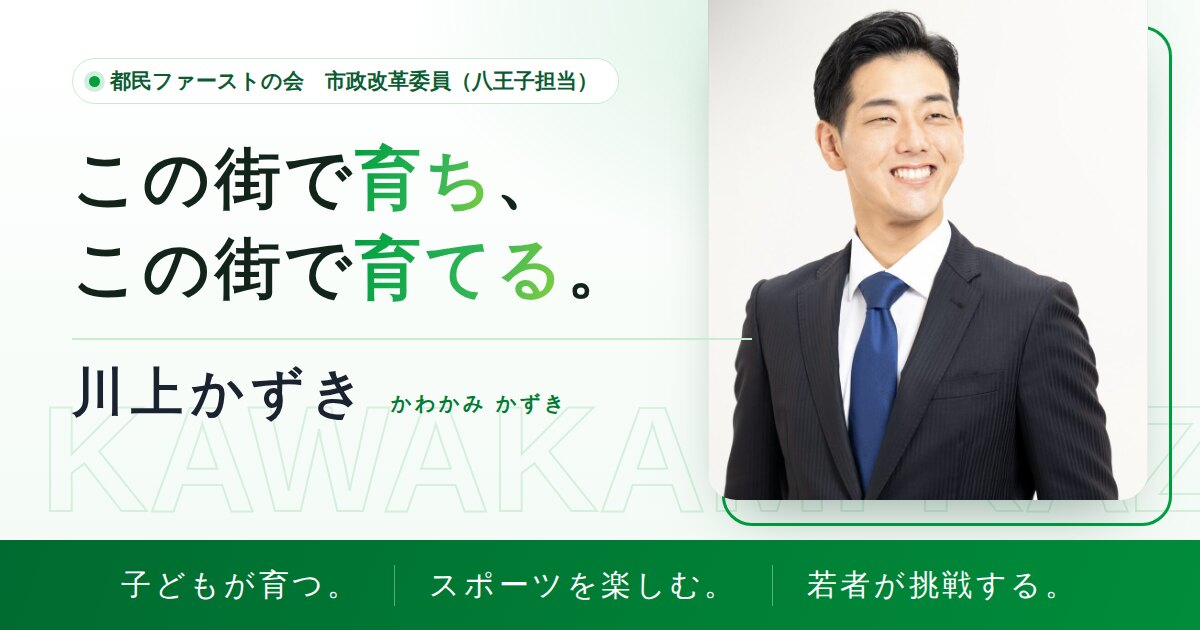
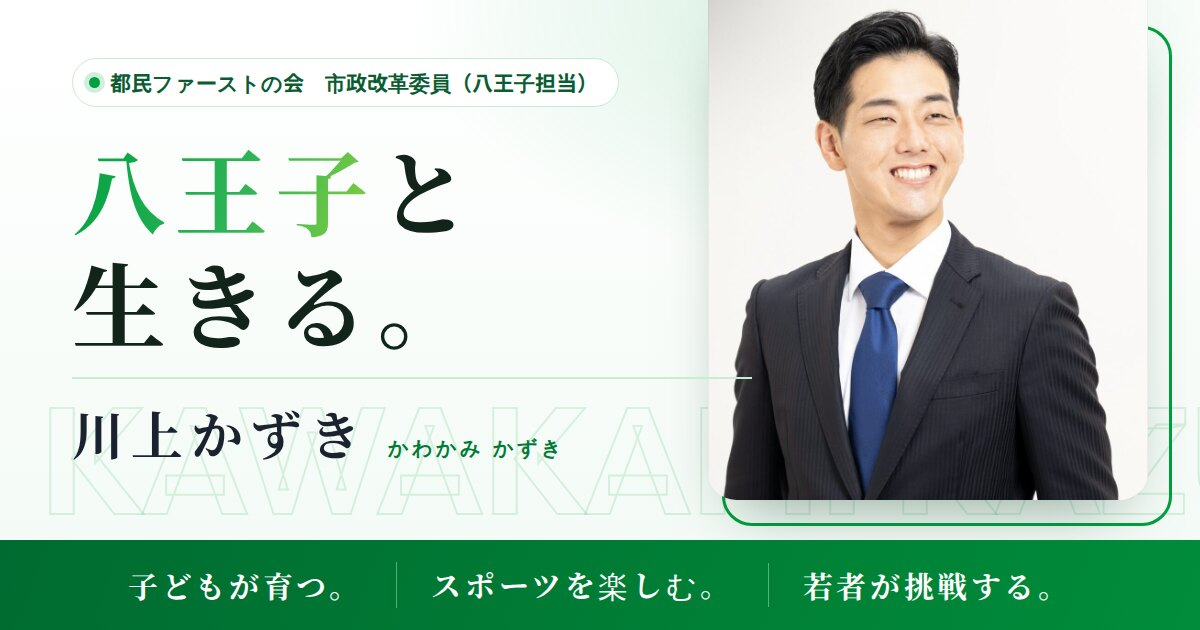
feat: トップコピーを「八王子と生きる。」に変更
- ヒーローの大見出しを「八王子と／生きる。」の2行に（「八王子」をグリーンで強調、
  短いコピーに合わせて文字を大きく）
- og:title・OGP画像・画像の代替テキストを新コピーに更新
- README：コピー変更と、チラシ等の表記統一の推奨を追記

Claude-Session: https://claude.ai/code/session_01L9ngPRagjoMjtmvbH2Zaop

diff --git a/kawakami/index.html b/kawakami/index.html
@@ -12,13 +12,13 @@
 <meta property="og:type" content="website">
 <meta property="og:locale" content="ja_JP">
 <meta property="og:site_name" content="川上かずき 公式サイト">
-<meta property="og:title" content="川上かずき｜この街で育ち、この街で育てる。">
+<meta property="og:title" content="川上かずき｜八王子と生きる。">
 <meta property="og:description" content="都民ファーストの会 市政改革委員（八王子担当）。八王子の子育て・教育・スポーツを、現場から。6つの政策をご紹介します。">
 <meta property="og:url" content="https://kawakami-kazuki.netlify.app/">
 <meta property="og:image" content="https://kawakami-kazuki.netlify.app/og-image.jpg">
 <meta property="og:image:width" content="1200">
 <meta property="og:image:height" content="630">
-<meta property="og:image:alt" content="川上かずき　この街で育ち、この街で育てる。">
+<meta property="og:image:alt" content="川上かずき　八王子と生きる。">
 <meta name="twitter:card" content="summary_large_image">
 
 <link rel="icon" href="favicon.svg" type="image/svg+xml">
@@ -115,7 +115,7 @@
     <div class="hero-text">
       <p class="hero-role" data-anim="fade" style="--delay:.05s">都民ファーストの会　市政改革委員（八王子担当）</p>
       <h1 id="hero-title">
-        <span class="hero-copy"><span class="line"><span>この街で<em>育ち</em>、</span></span><span class="line"><span>この街で<em>育てる</em>。</span></span></span>
+        <span class="hero-copy"><span class="line"><span><em>八王子</em>と</span></span><span class="line"><span>生きる。</span></span></span>
         <span class="hero-name" data-anim="blur" style="--delay:.75s"><span class="hero-name-main">川上かずき</span><span class="hero-name-kana">かわかみ かずき</span></span>
       </h1>
       <p class="hero-lead" data-anim="up" style="--delay:.95s">八王子で生まれ育ち、いまは高校で体育を教え、少年野球の監督を務めながら、二人の子どもを育てています。わが子を育て、地域の子どもを育てる毎日のなかで見えてきたことを、市政に届けます。</p>

diff --git a/kawakami/assets/style.css b/kawakami/assets/style.css
@@ -193,7 +193,7 @@ p:last-child { margin-bottom: 0; }
 }
 .hero-role::before { content: ""; width: 8px; height: 8px; border-radius: 50%; background: var(--brand); flex: none; box-shadow: 0 0 0 4px rgba(0,160,65,.18); }
 .hero h1 { margin-top: 24px; }
-.hero-copy { display: block; font-size: clamp(2.3rem, 4.7vw, 3.8rem); line-height: 1.32; color: var(--ink); letter-spacing: .06em; }
+.hero-copy { display: block; font-size: clamp(3.4rem, 7.4vw, 6.2rem); line-height: 1.2; color: var(--ink); letter-spacing: .08em; }
 .hero-copy .line { display: block; overflow: hidden; padding: .04em 0 .08em; margin-bottom: -.08em; }
 .hero-copy .line > span { display: inline-block; white-space: nowrap; }
 .hero-copy em { font-style: normal; background: var(--grad); -webkit-background-clip: text; background-clip: text; color: transparent; }

diff --git a/kawakami/README.md b/kawakami/README.md
@@ -31,7 +31,7 @@ kawakami/
 
 | 戦略メモ | サイトでの反映 |
 |---|---|
-| キャッチは「最年少への挑戦！」にしない。「この街で育ち、この街で育てる。」 | ヒーローの大見出しに採用。「最年少」「25歳」はどこにも書いていない |
+| キャッチは「最年少への挑戦！」にしない | トップコピーは「八王子と生きる。」（ご本人の決定）。「最年少」「25歳」はどこにも書いていない |
 | 子どもを選挙の小道具にしない。家族の露出は節度を | 子どもが写った写真はゼロ。「二人の子どもの父」は事実として一言だけ |
 | 「スター候補」にしない。見た目・経歴＝若い／中身＝意外に堅実 | 都民ファーストのグリーンで爽やかに見せつつ、見出しは明朝体で落ち着きを残す。動きはフェード・ワイプ中心で、派手な演出はしない。ガッツポーズ写真は不使用。格闘技はプロフィールの1行のみ |
 | 「政治家になりたい25歳」ではなく「すでに地元で活動している25歳」 | 「現場から」セクションで教育・子育て・地域スポーツ・起業の4つの現場を紹介し、「この街で続けてきたことの延長線上に、市政があります」で締める |
@@ -41,7 +41,7 @@ kawakami/
 
 ### チラシから変えた・補った点
 
-- **キャッチの統一**：チラシは「この街で育ち、この街で働き、この街で子どもを育てる。」、サイトは戦略メモの「この街で育ち、この街で育てる。」です。次に印刷するときは短い方に揃えるのがおすすめです（「育てる」に、わが子と地域の子の両方の意味が乗るため）。
+- **コピーの統一**：トップコピーは「八王子と生きる。」です。チラシは「この街で育ち、この街で働き、この街で子どもを育てる。」のままなので、次に印刷するときはチラシ・名刺・SNSのプロフィールも「八王子と生きる。」に揃えるのがおすすめです。
 - **部活動**：国の呼び方が2025年に「地域移行」から「地域展開」に変わり、2026年度から「改革実行期間」に入っています。サイトでは「部活動の地域展開（地域移行）」と両方を書き、検索にも対応させました。
 - **てくポ**：「てくポ」は60歳以上向けの市の健康ポイントで、すでにボランティアなど社会参加にもポイントが付きます。「拡大」だけだと「もうやっている」と指摘されうるため、「対象を、スポーツや地域活動へ **さらに** 広げる」としました。印刷物も合わせるのがおすすめです。
 - **写真**：チラシの写真はAI生成と思われるため、サイトでは使っていません（COMPLIANCE.md の6）。
